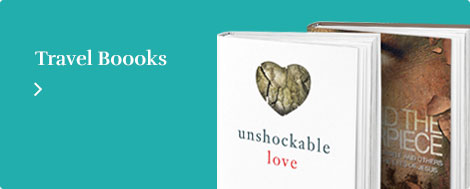
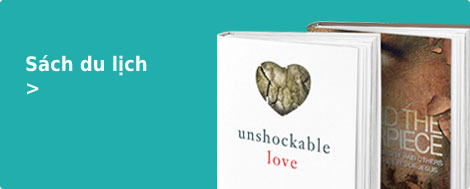
FE

Changed region(s): [[0.0596, 0.2646, 0.3574, 0.3968], [0.0596, 0.4233, 0.0894, 0.5026]]

diff --git a/ClientApp/src/components/Contact/Contact.js b/ClientApp/src/components/Contact/Contact.js
@@ -1,0 +1,95 @@
+import React, { Component } from 'react';
+import { withRouter } from 'react-router';
+
+
+class Contact extends Component {
+    render() {
+        return (
+            <div>
+                <div className="breadcrumbs-area mb-70">
+                    <div className="container">
+                        <div className="row">
+                            <div className="col-lg-12">
+                                <div className="breadcrumbs-menu">
+                                    <ul>
+                                        <li><a href="#">Trang chủ</a></li>
+                                        <li><a href="#" className="active">Liên hệ</a></li>
+                                    </ul>
+                                </div>
+                            </div>
+                        </div>
+                    </div>
+                </div>
+                <div className="map-area mb-70">
+                    <div className="container">
+                        <div className="row">
+                            <div className="col-lg-12">
+                                <div id="googleMap" />
+                            </div>
+                        </div>
+                    </div>
+                </div>
+                <div className="contact-area mb-70">
+                    <div className="container">
+                        <div className="row">
+                            <div className="col-lg-6 col-md-6 col-12">
+                                <div className="contact-info">
+                                    <h3>Thông tin liên hệ</h3>
+                                    <ul>
+                                        <li>
+                                            <i className="fa fa-map-marker" />
+                                                <span>Địa chỉ: </span>Số 8, Tôn Thất Thuyết, Mỹ Đình, Hà Nội
+                                        </li>
+                                        <li>
+                                            <i className="fa fa-envelope" />
+                                                <span>Số điện thoại: </span>0989899988
+                                            </li>
+                                        <li>
+                                            <i className="fa fa-mobile" />
+                                            <span>Email: </span>
+                                            <a href="#">nhanphamteam@gmail.com</a>
+                                        </li>
+                                    </ul>
+                                </div>
+                            </div>
+                            <div className="col-lg-6 col-md-6 col-12">
+                                <div className="contact-form">
+                                    <h3><i className="fa fa-envelope-o" />Gửi tin nhắn cho chúng tôi</h3>
+                                    <form id="contact-form" action="https://demo.hasthemes.com/koparion-preview/koparion/mail.php" method="post">
+                                        <div className="row">
+                                            <div className="col-lg-6">
+                                                <div className="single-form-3">
+                                                    <input name="name" type="text" placeholder="Tên" />
+                                                </div>
+                                            </div>
+                                            <div className="col-lg-6">
+                                                <div className="single-form-3">
+                                                    <input name="email" type="email" placeholder="Email" />
+                                                </div>
+                                            </div>
+                                            <div className="col-lg-12">
+                                                <div className="single-form-3">
+                                                    <input name="subject" type="text" placeholder="Vấn đề" />
+                                                </div>
+                                            </div>
+                                            <div className="col-lg-12">
+                                                <div className="single-form-3">
+                                                    <textarea name="message" placeholder="Thông điệp" defaultValue={""} />
+                                                    <button className="submit" type="submit">Gửi tin nhắn</button>
+                                                </div>
+                                            </div>
+                                        </div>
+                                    </form>
+                                    <p className="form-messege" />
+                                </div>
+                            </div>
+                        </div>
+                    </div>
+                </div>
+            </div>
+
+        );
+    }
+}
+
+export default withRouter(Contact);

diff --git a/ClientApp/public/style.css b/ClientApp/public/style.css
@@ -52,23 +52,15 @@
 /*-------------------------------------------------------------*/
 
 /* google-font */
-<<<<<<< HEAD
+
 * {
     padding: 0, margin: 0
 }
 @import url('https://fonts.googleapis.com/css?family=Open+Sans:400,600,700,800|Rufina:400,700');
-=======
-
-
->>>>>>> b5720f0ef0d9552b58b65e0b94960801e3d9b785
 
 @import url('https://fonts.googleapis.com/css?family=Open+Sans:400,600,700,800|Roboto:400,700');
 *{
     font-family: 'Roboto', serif;
-<<<<<<< HEAD
-=======
-
->>>>>>> b5720f0ef0d9552b58b65e0b94960801e3d9b785
 }
 html,
 body {
@@ -681,7 +673,7 @@ body {
 }
 
 .header-mid-area .my-cart ul li>a>i {
-    font-size: 30px;
+    font-size: 27px;
     padding-right: 30px;
 }
 
@@ -691,9 +683,9 @@ body {
         bottom: 0;
         color: #fff;
         display: inline-block;
-        font-size: 18px;
+        font-size: 17px;
         height: 25px;
-        left: 20px;
+        left: 15px;
         line-height: 25px;
         position: absolute;
         text-align: center;
@@ -2792,8 +2784,8 @@ a#scrollUp:hover {
     height: 40px;
     line-height: 40px;
     margin: 0;
-    padding-left: 233px;
-    padding-right: 55px;
+    padding-left: 25px;
+    padding-right: 150px;
     width: 100%;
     font-family: 'Rufina', serif;
     font-weight: 400;
@@ -7679,5 +7671,41 @@ p.lost-password a:hover {
 .compare-table .table tbody tr td.pro-ratting i {
     color: #c29958;
 }
-
-/*------ end Compare Page Wrapper -----*/
+.home-2 .main-menu ul li .sub-menu {
+    background: #fff none repeat scroll 0 0;
+    box-shadow: 1px 2px 10px 0 rgba(0, 0, 0, 0.1);
+    left: 0;
+    opacity: 0;
+    padding: 10px 20px;
+    position: absolute;
+    top: 100%;
+    transform: scaleY(0);
+    transform-origin: 0 0 0;
+    transition: all 0.5s ease 0s;
+    visibility: hidden;
+    width: 200px;
+    z-index: 6;
+}
+div {
+    display: block;
+}
+.nav-link .dropdown-toggle {
+    background: #fff none repeat scroll 0 0;
+    box-shadow: 1px 2px 10px 0 rgba(0, 0, 0, 0.1);
+    left: 0;
+    opacity: 0;
+    padding: 10px 20px;
+    position: absolute;
+    top: 100%;
+    transform: scaleY(0);
+    transform-origin: 0 0 0;
+    transition: all 0.5s ease 0s;
+    visibility: hidden;
+    width: 200px;
+    z-index: 6;
+}
+    .nav-link .dropdown-toggle ul li {
+        display: inline-block;
+        position: relative;
+    }
+    /*------ end Compare Page Wrapper -----*/

diff --git a/ClientApp/src/App.js b/ClientApp/src/App.js
@@ -12,6 +12,7 @@ import API from './components/API';
 import Checkout from './components/Checkout/Checkout';
 import ProFile from './components/Profile/ProFile';
 import ProductDetail from './components/ProductDetail/ProductDetail';
+import Contact from './components/Contact/Contact';
 import Loading from './components/isLoading';
 
 export default class App extends Component {
@@ -97,7 +98,8 @@ export default class App extends Component {
             <Route exact path='/' component={() => <Home products={products} />} />
             <Route exact path='/product' component={() => <Product categories={categories} updateCartState={this.updateCartState} cart={cart} products={products} />} />
             <Route path='/product/:id' component={() => <ProductDetail products={products} updateCartState={this.updateCartState} cart={cart} />} />
-            <Route exact path='/cart' component={() => <Cart updateCartState={this.updateCartState} cart={cart}/>} />
+            <Route exact path='/cart' component={() => <Cart updateCartState={this.updateCartState} cart={cart} />} />
+            <Route exact path='/contact' component={() => <Contact />} />
             <AuthorizeRoute path='/check-out' component={() => <Checkout currentUser={currentUser} cartState={this.updateCartState} cart={cart} />} />
             <AuthorizeRoute path='/profile' component={() => <ProFile currentUser={currentUser} updateUser={this.updateUser} orders={orders} />} />
 

diff --git a/ClientApp/src/components/ProductDetail/ProductDetail.js b/ClientApp/src/components/ProductDetail/ProductDetail.js
@@ -104,8 +104,8 @@ class ProductDetail extends Component {
                             <div className="col-lg-12">
                                 <div className="breadcrumbs-menu">
                                     <ul>
-                                        <li><Link to="/">Home</Link></li>
-                                        <li>Product Details</li>
+                                        <li><Link to="/">Trang chủ</Link></li>
+                                        <li>Chi tiết sản phẩm</li>
                                     </ul>
                                 </div>
                             </div>
@@ -283,7 +283,7 @@ class ProductDetail extends Component {
                             <div className="col-lg-3 col-md-12 col-12 order-lg-2 order-2">
                                 <div className="shop-left">
                                     <div className="left-title mb-20">
-                                        <h4>Related Products</h4>
+                                        <h4>Ưu đãi ngay hôm nay</h4>
                                     </div>
                                     <div className="random-area mb-30">
                                         <div className="product-active-2 owl-carousel">

diff --git a/ClientApp/src/components/NavMenu.js b/ClientApp/src/components/NavMenu.js
@@ -167,7 +167,7 @@ export class NavMenu extends Component {
                                               </div>
                                           </li>
                                           <li className="nav-item active ml-5">
-                                              <a className="nav-link" href="#">Liên hệ <span className="sr-only">(current)</span></a>
+                                              <Link className="nav-link" to="/contact">Liên hệ <span className="sr-only">(current)</span></Link>
                                           </li>
                                           <li className="nav-item active ml-5">
                                               <a className="nav-link" href="#">Blog</a>

diff --git a/ClientApp/src/components/Product/Product.js b/ClientApp/src/components/Product/Product.js
@@ -109,8 +109,8 @@ export default class Product extends Component {
                             <div className="col-lg-12">
                                 <div className="breadcrumbs-menu">
                                     <ul>
-                                        <li><Link to="/">Home</Link></li>
-                                        <li><a className="active">Products</a></li>
+                                        <li><Link to="/">Trang chủ</Link></li>
+                                        <li><a className="active">Sản phẩm</a></li>
                                     </ul>
                                 </div>
                             </div>
